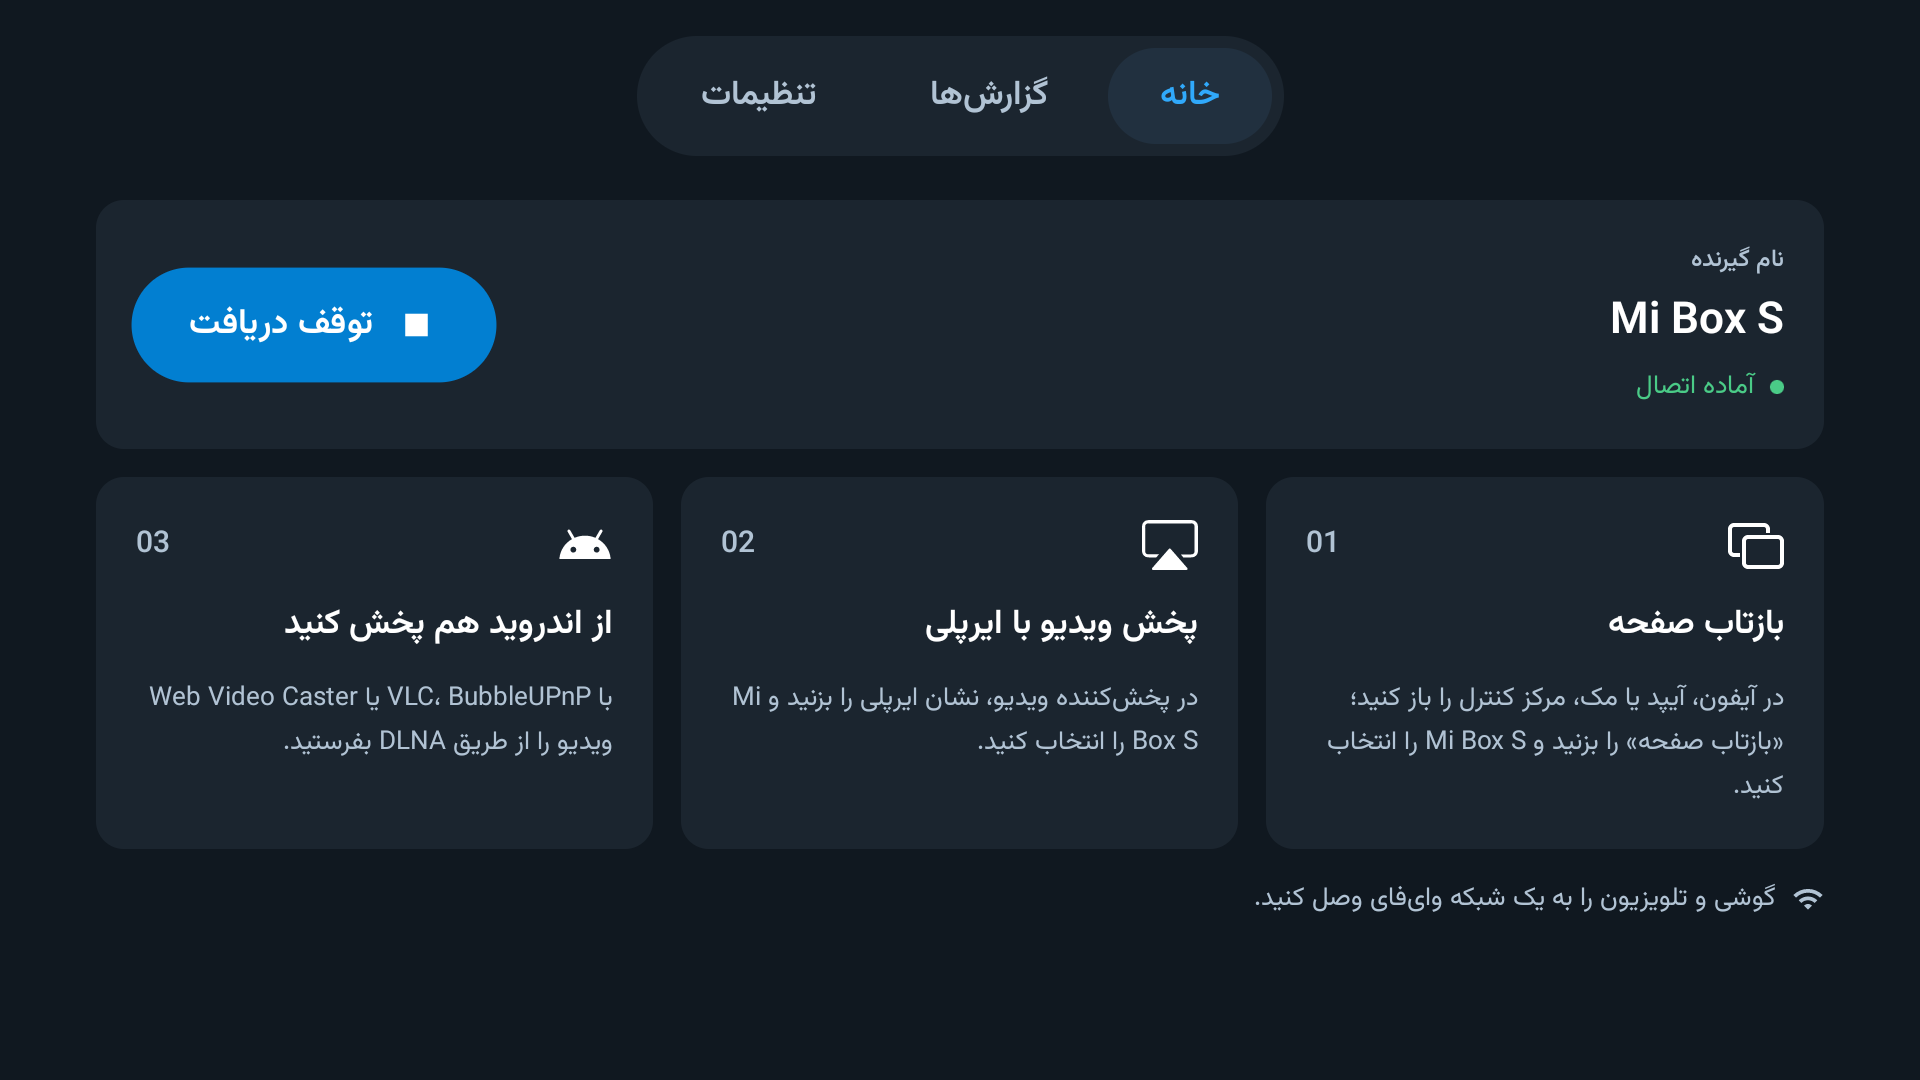
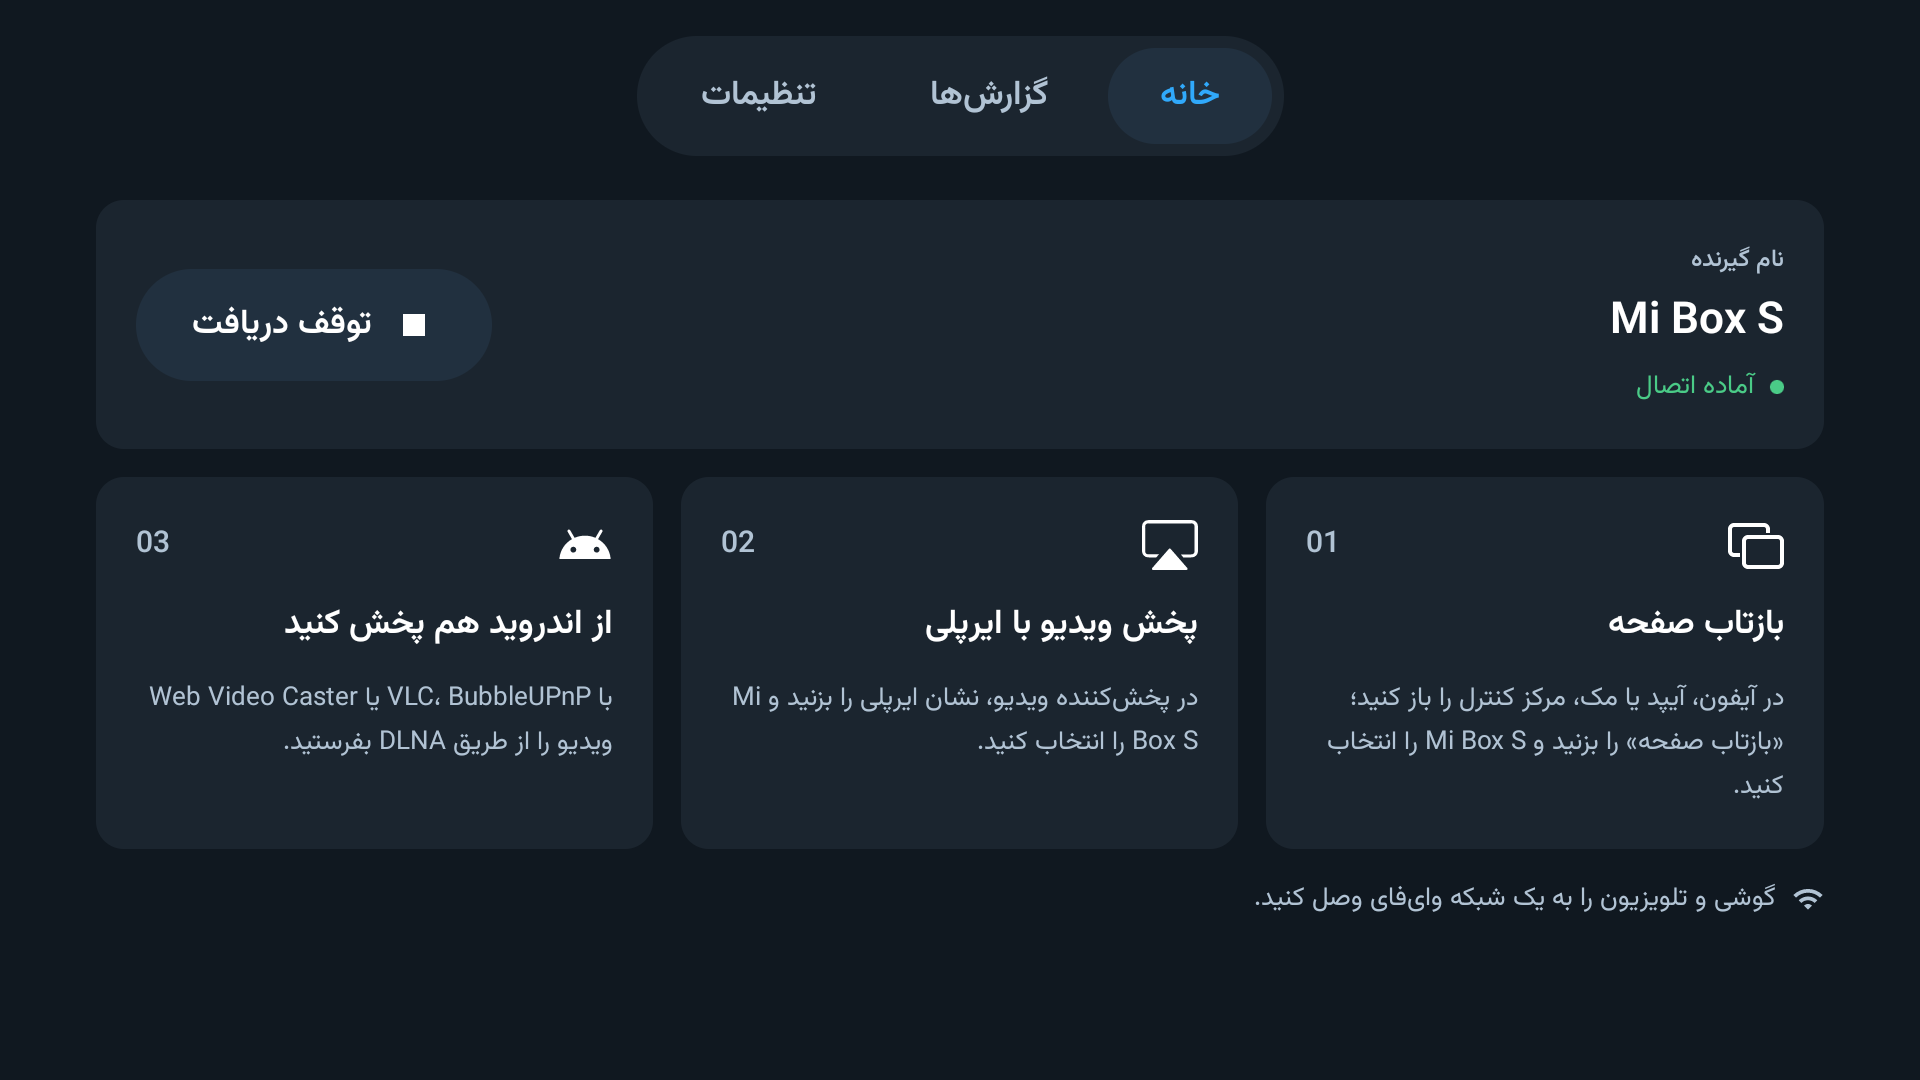
Clip remote focus to rounded shapes and record store resubmissions

Changed region(s): [[0.0625, 0.2444, 0.2812, 0.3667]]

diff --git a/app/src/main/kotlin/io/github/mehdieskandari/airplaytv/ui/Tv.kt b/app/src/main/kotlin/io/github/mehdieskandari/airplaytv/ui/Tv.kt
@@ -54,7 +54,12 @@ fun Modifier.dpadFocus(
         label = "focusLift"
     )
     onFocusChanged { focused = it.isFocused }
-        .graphicsLayer { scaleX = scale; scaleY = scale }
+        .graphicsLayer {
+            scaleX = scale
+            scaleY = scale
+            this.shape = shape
+            clip = true
+        }
         .border(2.dp, if (focused) focusColor else Color.Transparent, shape)
 }
 

diff --git a/docs/resubmission-1.5.0.md b/docs/resubmission-1.5.0.md
@@ -6,6 +6,7 @@
 - متنهای رابط، تنظیمات پیشرفته، زیرنویس، تأیید دستگاه، کنترلهای پخش و اعلانها برای هر سه حالت منابع جداگانه دارند. فارسی راستبهچپ و با وزیرمتن نمایش داده میشود.
 - رابط اصلی با نشان AirPlay و نماد بازتاب صفحه، راهنمای اتصال و کارت وضعیت گیرنده بازطراحی شده است. نشان AirPlay Video مستقیما از [فایل برداری مرجع](https://github.com/simple-icons/simple-icons/blob/develop/icons/airplayvideo.svg) استفاده میکند و هندسه آن دوباره طراحی نشده است.
 - عنوان صفحه اصلی در فارسی و حالت ترکیبی «ایر پلی تی وی - AirPlay TV» و در انگلیسی «AirPlay TV» است.
+- لایه فوکوس ریموت به شکل همان عنصر برش میخورد تا پسزمینه و اثر انتخاب از گوشههای گرد کارتها بیرون نزند.
 - سه ظاهر ذخیرهشونده وجود دارد: «تلی تیره» (پیشفرض)، «تلی روشن» و «ساده تیره». تغییر تم همان لحظه و بدون بازسازی سرویس انجام میشود. گرادیانهای تزئینی، درخشش و سایه فوکوس حذف شدهاند.
 - پالت تلی تیره از تصویر مرجع کاربر نمونهبرداری شده است: زمینه `#101820`، سطح `#1B252F`، جداکننده `#21303F`، آبی فعال `#30A9FB` و متن فرعی `#B1C3D4`. تلی روشن از سطوح سفید و خاکستری روشن، متن تیره و رنگ آبی هماهنگ استفاده میکند.
 - لوگوی لانچر، نشان برند داخل برنامه و آیکون ۵۱۲×۵۱۲ فروشگاه سفید روی مشکی خالص هستند. نماد در اعلان نیز یکسان است. آیکون برداری برای اندروید ۶ و ۷ نیز مسیر جداگانه دارد.
@@ -71,7 +72,14 @@ python3 scripts/verify-release.py --require-signed \
 - درخواست واقعی DLNA از طریق ADB به برنامه امضاشده ارسال شد: رد از دیالوگ پاسخ SOAP با خطای ۵۰۱ و HTTP 500 داد؛ اجازه فقط یک بار پاسخ HTTP 200 داد. درخواست شامل نشانی خالی بود و پخش ویدیو شروع نشد.
 - اینتنتهای مایکت از رابط نسخه امضاشده و مسیر جایگزین در نبود فروشگاه بررسی شدند. پاسخ واقعی مایکت و ثبت نظر روی برنامه تاییدشده در این آزمایش بررسی نشد.
 - ارتقا از نسخه ۱۴۰ به نسخه مستقیم ۱۵۰ روی تلویزیون فیزیکی MiTV_AFMU0 با اندروید ۱۴ انجام شد؛ نام گیرنده «Mi Box S» حفظ شد، انتخاب فارسی با دکمههای جهت ریموت انجام شد و سرویس در وضعیت آماده اتصال اجرا شد. تغییر زنده تلی تیره و روشن بدون تغییر فرایند برنامه نیز بررسی شد. پخش واقعی از آیفون در این نوبت آزمایش نشده است.
-- نتیجه ارسال به فروشگاهها جداگانه ثبت میشود.
+- اصلاح برش گوشههای گرد در حالت فوکوس با ریموت روی تلویزیون واقعی بررسی شد؛ تصویر `docs/screenshots/1.5.0/language-focus-tv.png` حالت فعال کارت فارسی را نشان میدهد.
+
+## ارسال مجدد در ۲۲ نوامبر ۲۰۲۶
+
+- مایکت: نسخه ۱.۵.۰ با کد ۱۵۰، لوگوی AirPlay سفید روی مشکی و سه تصویر جدید تلی ارسال شدند. وضعیت نهایی پنل «در حال بررسی توسط مدیریت» و «تغییرات اخیر شما ارسال شدهاند و در انتظار بررسی هستند» است.
+- بازار: نسخه ۱.۵.۰ با کد ۱۵۰ ارسال شد و وضعیت نسخه در پنل «در صف انتظار» است. حذف مجوز نصب بسته و دلیل استفاده از `SYSTEM_ALERT_WINDOW` برای نمایش تایید اتصال و صفحه پخش از پسزمینه در توضیحات بررسیکننده ثبت شدند.
+- تمام اسکرینشاتهای قبلی در هر دو فروشگاه با سه تصویر واقعی از تلویزیون جایگزین شدند: تلی تیره، تلی روشن و تنظیمات تلی. لوگوی فروشگاهها نیز بهروز شد.
+- ارسال برای بررسی انجام شده است؛ تایید یا انتشار نهایی فروشگاهها هنوز اعلام نشده است. آنالیتیکس به این نسخه اضافه نشده است.
 
 ## خروجیها
 
